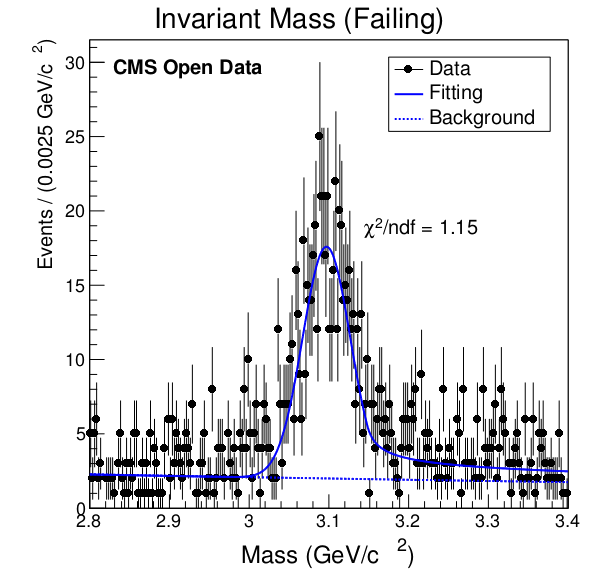
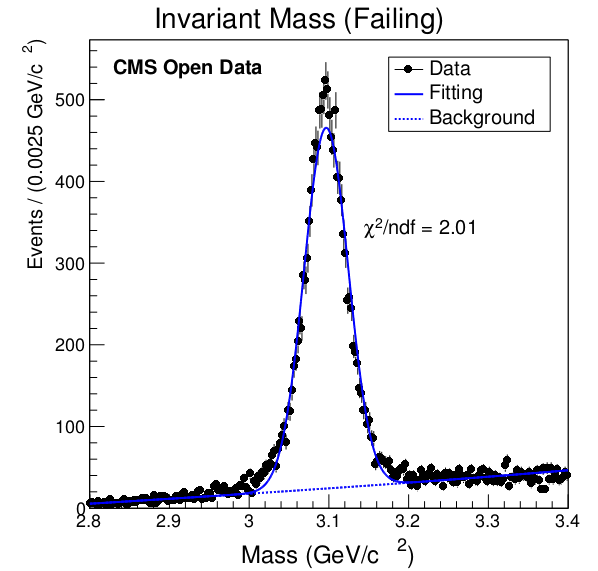
Progress status display and show mass before step 2

diff --git a/main/macro.cc b/main/macro.cc
@@ -40,7 +40,7 @@ void generateHistograms(bool shouldDrawInvariantMassCanvas = true, bool shouldDr
 	TTree *TreeAT = (TTree*)file0->Get("demo/AnalysisTree");	//Opens TTree of file
 
 	//Temporary var for test
-	int useNewData = 0;
+	int useNewData = 2;
 	//0 -> Raphael Ntupple
 	//1 -> New 2011 Run Ntupple
 	//2 -> New MC Ntupple
@@ -100,8 +100,7 @@ void generateHistograms(bool shouldDrawInvariantMassCanvas = true, bool shouldDr
 	for (int i = 0; i < numberEntries; i++)
 	{
 		//Show progress
-		if (i%500 == 0 || i == numberEntries - 1)
-			printf((progressFormat).data(), 1, (float)i/(float)numberEntries*100, i, numberEntries);
+		printf((progressFormat).data(), 1, (float)i/(float)numberEntries*100, i, numberEntries);
 
 		TreePC->GetEntry(i);
 		TreeAT->GetEntry(i);
@@ -119,33 +118,6 @@ void generateHistograms(bool shouldDrawInvariantMassCanvas = true, bool shouldDr
 
 	Muon.doFit();
 	Muon.updateSelectionParameters();
-
-	//Loop between the components again
-	for (int i = 0; i < numberEntries; i++)
-	{
-		//Show progress
-		if (i%500 == 0 || i == numberEntries - 1)
-			printf((progressFormat).data(), 2, (float)i/(float)numberEntries*100, i, numberEntries);
-
-		TreePC->GetEntry(i);
-		TreeAT->GetEntry(i);
-
-		//Accepted particles
-		if (TagMuon_Pt >= 7.0 && abs(TagMuon_Eta) <= 2.4)
-		{
-			if (PassingProbeTrackingMuon)
-				Muon.Pass.fillHistograms(InvariantMass, TagMuon_Pt, TagMuon_Eta, TagMuon_Phi, ProbeMuon_Pt, ProbeMuon_Eta, ProbeMuon_Phi);
-			else
-				Muon.Fail.fillHistograms(InvariantMass, TagMuon_Pt, TagMuon_Eta, TagMuon_Phi, ProbeMuon_Pt, ProbeMuon_Eta, ProbeMuon_Phi);
-			Muon.Both.fillHistograms(InvariantMass, TagMuon_Pt, TagMuon_Eta, TagMuon_Phi, ProbeMuon_Pt, ProbeMuon_Eta, ProbeMuon_Phi);
-		}
-	}
-	cout << endl;
-
-	//Debug
-	Muon.massDebugCout();
-	
-	Muon.subtractSigHistograms();
 
 	//-------------------------------------
 	// Generate and save files
@@ -166,8 +138,32 @@ void generateHistograms(bool shouldDrawInvariantMassCanvas = true, bool shouldDr
 		Muon.Fail.Mass.createCanvas(drawRegions, shouldWrite, shouldSave);
 		Muon.Both.Mass.createCanvas(drawRegions, shouldWrite, shouldSave);
 	}
+
+	//Loop between the components again
+	for (int i = 0; i < numberEntries; i++)
+	{
+		//Show progress
+		printf((progressFormat).data(), 2, (float)i/(float)numberEntries*100, i, numberEntries);
+
+		TreePC->GetEntry(i);
+		TreeAT->GetEntry(i);
+
+		//Accepted particles
+		if (TagMuon_Pt >= 7.0 && abs(TagMuon_Eta) <= 2.4)
+		{
+			if (PassingProbeTrackingMuon)
+				Muon.Pass.fillHistograms(InvariantMass, TagMuon_Pt, TagMuon_Eta, TagMuon_Phi, ProbeMuon_Pt, ProbeMuon_Eta, ProbeMuon_Phi);
+			else
+				Muon.Fail.fillHistograms(InvariantMass, TagMuon_Pt, TagMuon_Eta, TagMuon_Phi, ProbeMuon_Pt, ProbeMuon_Eta, ProbeMuon_Phi);
+			Muon.Both.fillHistograms(InvariantMass, TagMuon_Pt, TagMuon_Eta, TagMuon_Phi, ProbeMuon_Pt, ProbeMuon_Eta, ProbeMuon_Phi);
+		}
+	}
+	cout << endl;
+
+	//Debug
+	Muon.massDebugCout();
 	
-	Muon.Pass.Probe.Eta.createDividedCanvas(false, false);
+	Muon.subtractSigHistograms();
 
 	if (shouldDrawQuantitiesCanvas)
 	{
@@ -224,8 +220,8 @@ void generateHistograms(bool shouldDrawInvariantMassCanvas = true, bool shouldDr
 void macro()
 {
 	bool shouldDrawInvariantMassCanvas 	= true;
-	bool shouldDrawQuantitiesCanvas 	= false;
-	bool shouldDrawEfficiencyCanvas 	= false;
+	bool shouldDrawQuantitiesCanvas 	= true;
+	bool shouldDrawEfficiencyCanvas 	= true;
 
 	generateHistograms(shouldDrawInvariantMassCanvas, shouldDrawQuantitiesCanvas, shouldDrawEfficiencyCanvas);
 }
